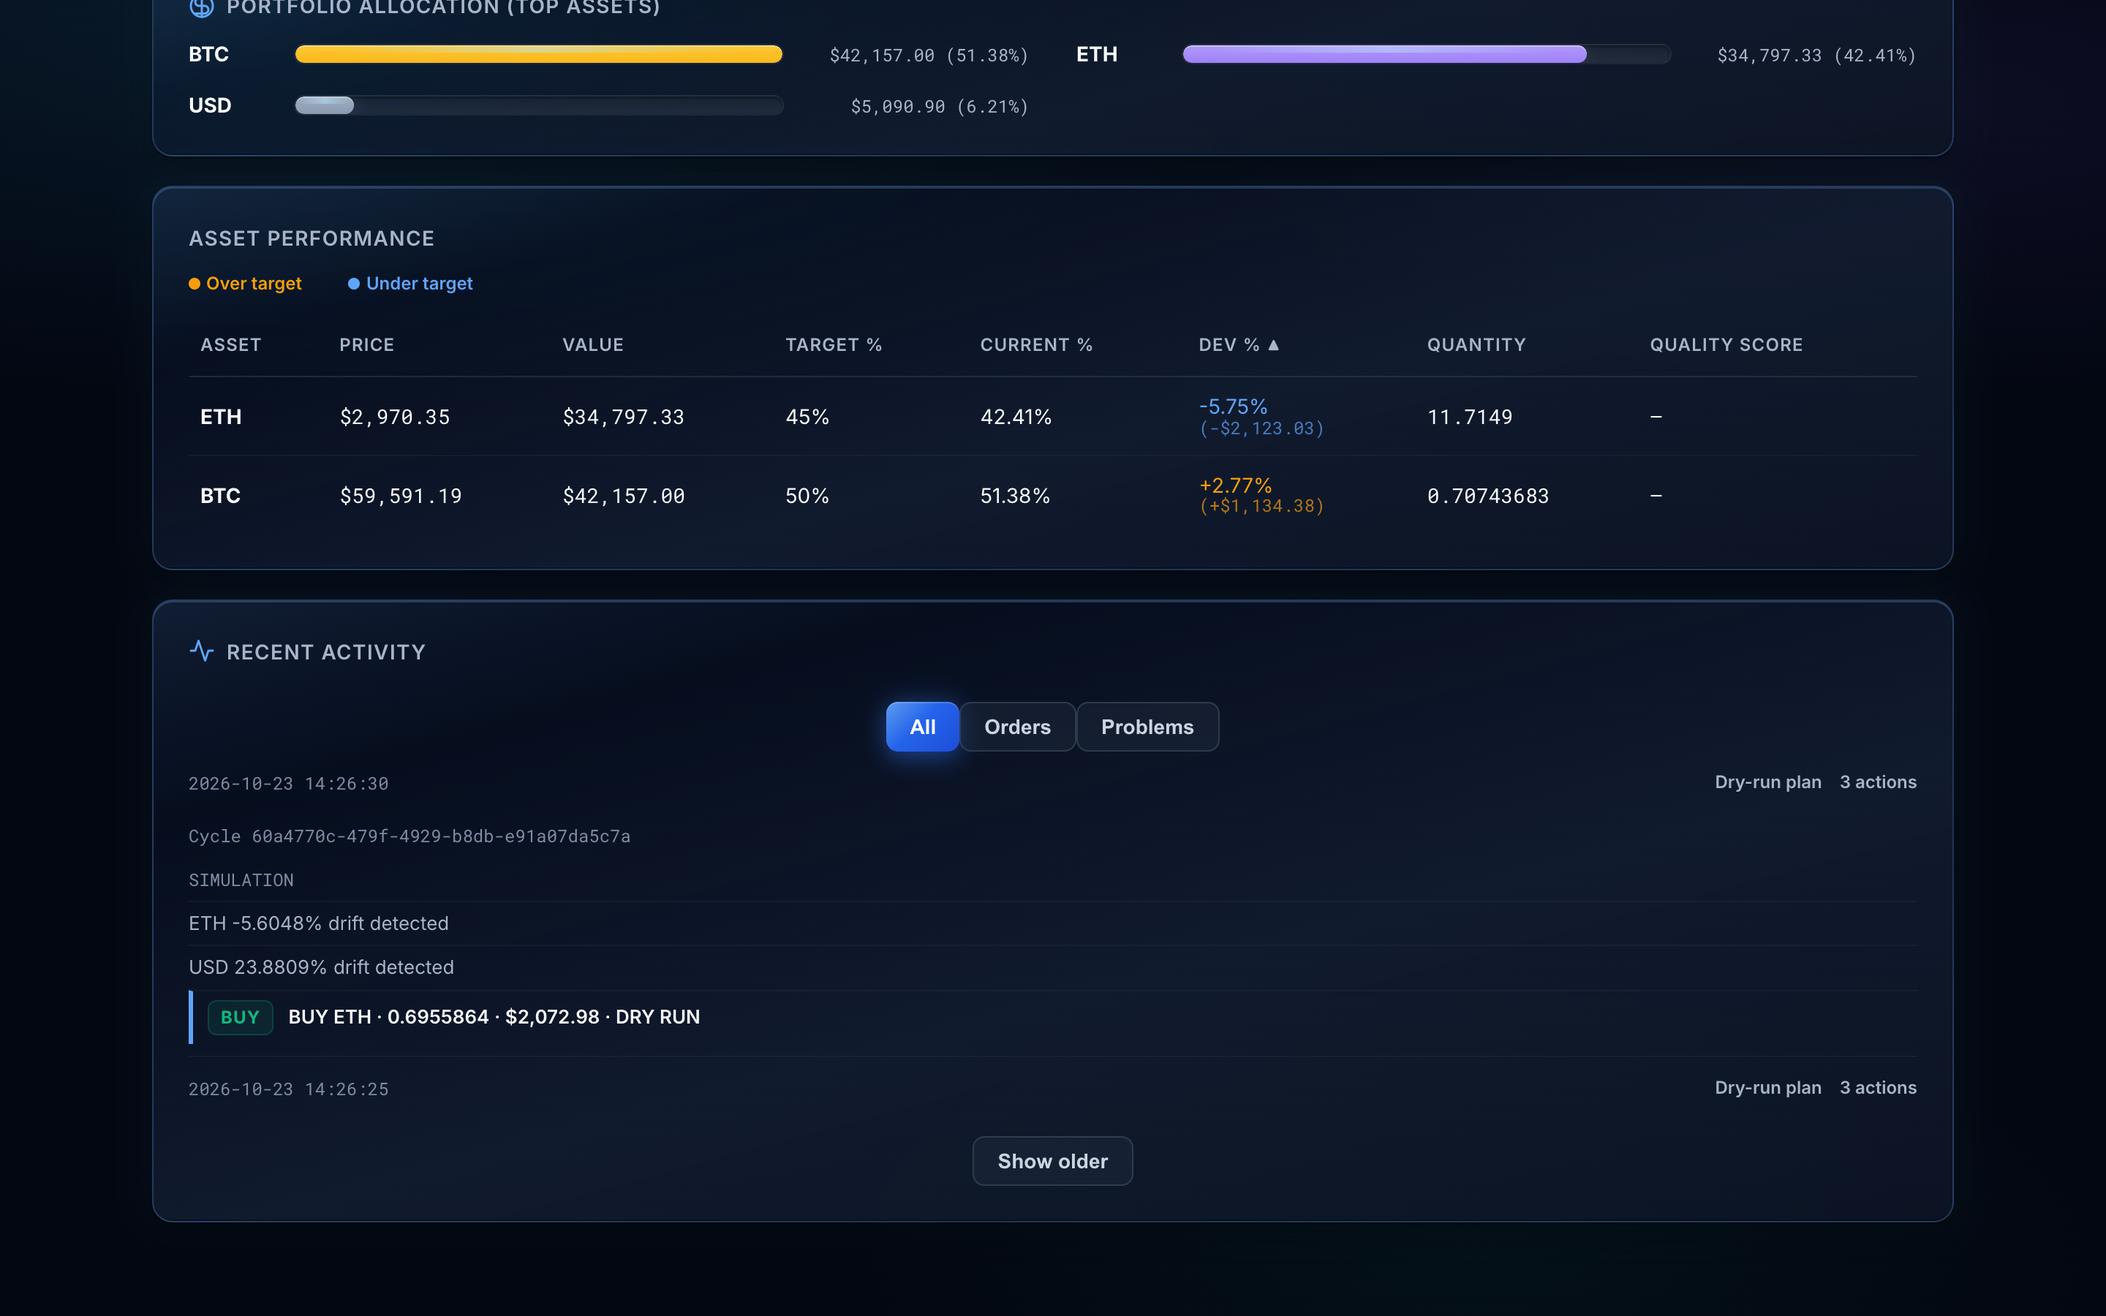
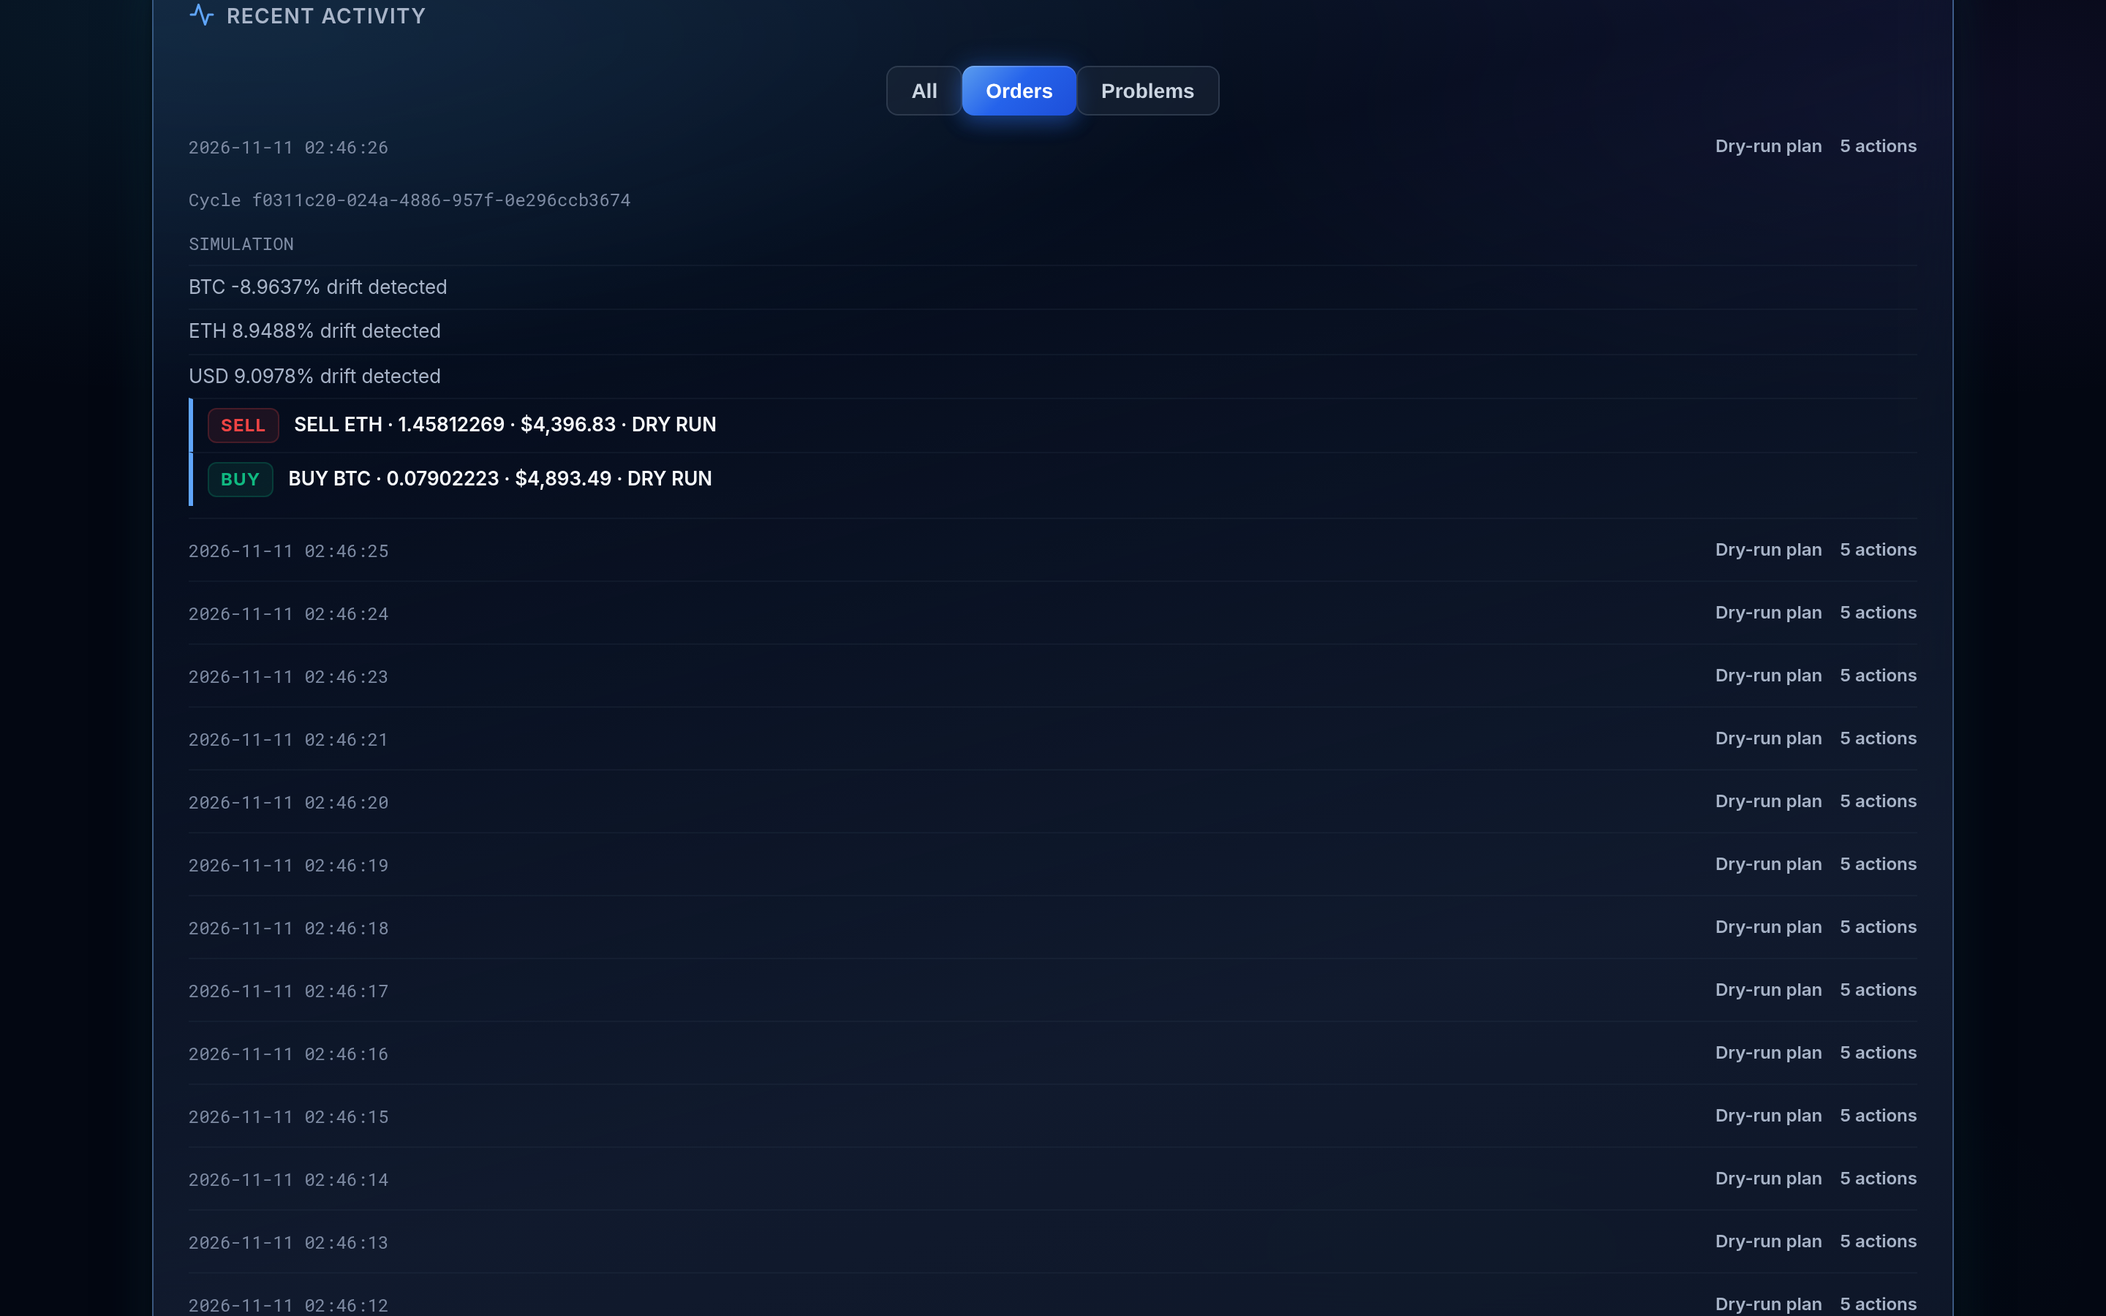
fix: retain order activity through routine rebalance cycles (#466)
* wip: retain order and problem activity

* test: verify retained activity and refresh simulator screenshot

diff --git a/frontend-js/src/jsMain/kotlin/Dashboard.kt b/frontend-js/src/jsMain/kotlin/Dashboard.kt
@@ -2,7 +2,7 @@ package com.gemini.krakenbot.frontend
 
 import com.gemini.krakenbot.util.PrecisionConstants
 import com.gemini.krakenbot.util.StreamStatus
-import com.gemini.krakenbot.view.util.ActionLogFormat
+import com.gemini.krakenbot.view.util.ActivityClassification
 import com.gemini.krakenbot.view.util.CssClass
 import com.gemini.krakenbot.view.util.DataSort
 import com.gemini.krakenbot.view.util.HtmlAttrs
@@ -180,20 +180,19 @@ internal fun mergeRecentActivityItems(
 ): List<RecentActivityItem> {
     val byCycleId = linkedMapOf<String, RecentActivityItem>()
     (existing + incoming).forEach { item -> byCycleId[item.cycleId] = item }
-    return byCycleId.values
+    val sorted = byCycleId.values
         .sortedWith(compareByDescending<RecentActivityItem> { it.occurredAt }.thenByDescending { it.cycleId })
-        .take(RecentActivityText.MAX_ITEMS.toInt())
+    return ActivityClassification.retain(sorted) { ActivityClassification.isProtected(it.outcome, it.actions) }
 }
 
 internal fun filterRecentActivityItems(items: List<RecentActivityItem>, filter: String): List<RecentActivityItem> =
     when (filter) {
         RecentActivityText.FILTER_VALUE_ORDERS -> items.filter { item ->
-            outcomeCode(item.outcome) in setOf("DRY_RUN_PLAN", "ORDERS_ATTEMPTED") ||
-                item.actions.any(::isOrderAction)
+            ActivityClassification.hasOrders(item.outcome, item.actions)
         }
 
         RecentActivityText.FILTER_VALUE_PROBLEMS -> items.filter { item ->
-            outcomeCode(item.outcome) == "PROBLEM" || item.actions.any(::isProblemAction)
+            ActivityClassification.hasProblem(item.outcome, item.actions)
         }
 
         else -> items
@@ -414,29 +413,15 @@ private fun activityModeLabel(mode: String): String = when (mode.uppercase()) {
 }
 
 private fun itemHasOrders(item: RecentActivityItem): Boolean =
-    outcomeCode(item.outcome) in setOf("DRY_RUN_PLAN", "ORDERS_ATTEMPTED") || item.actions.any(::isOrderAction)
+    ActivityClassification.hasOrders(item.outcome, item.actions)
 
 private fun hasActivity(item: RecentActivityItem): Boolean =
-    item.actions.isNotEmpty() || outcomeCode(item.outcome) in setOf("DRY_RUN_PLAN", "ORDERS_ATTEMPTED", "PROBLEM")
+    item.actions.isNotEmpty() || ActivityClassification.isProtected(item.outcome, item.actions)
 
 private fun itemProblem(item: RecentActivityItem): Boolean =
-    outcomeCode(item.outcome) == "PROBLEM" || item.actions.any(::isProblemAction)
+    ActivityClassification.hasProblem(item.outcome, item.actions)
 
-private fun isOrderAction(action: String): Boolean = activityOrderSide(action) != null
-
-private fun activityOrderSide(action: String): String? {
-    val normalized = action.uppercase().removePrefix(ActionLogFormat.DRY_RUN_PREFIX.uppercase()).trim()
-    return when {
-        normalized.startsWith("BUY") -> "BUY"
-        normalized.startsWith("SELL") -> "SELL"
-        else -> null
-    }
-}
-
-private fun isProblemAction(action: String): Boolean {
-    val normalized = action.uppercase().trimStart()
-    return normalized.startsWith("ERROR") || normalized.startsWith("FAILED") || normalized.startsWith("WARNING")
-}
+private fun activityOrderSide(action: String): String? = ActivityClassification.orderSide(action)
 
 private fun activityLocalTime(timestamp: Double): String {
     val date = Date(timestamp)

diff --git a/backend/src/test/kotlin/com/gemini/krakenbot/service/CurrentPortfolioStateTest.kt b/backend/src/test/kotlin/com/gemini/krakenbot/service/CurrentPortfolioStateTest.kt
@@ -112,7 +112,7 @@ class CurrentPortfolioStateTest : StringSpec() {
             val state = CurrentPortfolioState()
             val start = Instant.parse("2026-10-11T12:00:00Z")
 
-            repeat(CurrentPortfolioState.MAX_RECENT_ACTIVITIES + 10) { index ->
+            repeat(130) { index ->
                 state.publish(
                     TestFixtures.emptySnapshot(start.plusSeconds(index.toLong()), BigDecimal("100")),
                     sourceScope = "live:credential-generation-a",
@@ -128,7 +128,7 @@ class CurrentPortfolioStateTest : StringSpec() {
 
             val view = state.readDashboardView()
             view.recentSnapshots shouldHaveSize 130
-            view.recentActivities shouldHaveSize CurrentPortfolioState.MAX_RECENT_ACTIVITIES
+            view.recentActivities shouldHaveSize 120
             view.recentActivities.first().cycleId shouldBe "cycle-129"
             view.recentActivities.last().cycleId shouldBe "cycle-10"
 
@@ -143,6 +143,35 @@ class CurrentPortfolioStateTest : StringSpec() {
             state.readDashboardView().recentActivities.first() shouldBe failed
             state.readDashboardView().latest shouldBe view.latest
             state.activityUpdates.value shouldBe failed
+        }
+
+        "routine cycles cannot evict orders or problems and both classes remain bounded" {
+            val state = CurrentPortfolioState()
+            val start = Instant.parse("2026-10-11T12:00:00Z")
+            fun activity(id: String, index: Int, outcome: CurrentCycleOutcome?, actions: List<String>) =
+                CurrentCycleActivity(
+                    id,
+                    start.plusSeconds(index.toLong()),
+                    CurrentCycleActivityMode.LIVE,
+                    outcome,
+                    actions,
+                )
+
+            state.publishActivity(activity("order", 0, null, listOf("[DRY RUN] BUY BTC")), "a")
+            repeat(130) {
+                state.publishActivity(activity("routine-$it", it + 1, CurrentCycleOutcome.NO_TRADE, emptyList()), "a")
+            }
+            state.readDashboardView().recentActivities.map { it.cycleId }.contains("order") shouldBe true
+            repeat(120) {
+                state.publishActivity(activity("problem-$it", it + 200, null, listOf("WARNING: issue")), "a")
+            }
+            val retained = state.readDashboardView().recentActivities
+            retained shouldHaveSize 240
+            retained.any { it.cycleId == "order" } shouldBe false
+            state.publishActivity(activity("problem-119", 400, CurrentCycleOutcome.NO_TRADE, emptyList()), "a")
+            state.readDashboardView().recentActivities.count { it.cycleId == "problem-119" } shouldBe 1
+            state.publishActivity(activity("new-source", 500, null, emptyList()), "b")
+            state.readDashboardView().recentActivities.map { it.cycleId } shouldBe listOf("new-source")
         }
 
         "activity ring clears on source changes and replaces duplicate cycle identities" {

diff --git a/frontend-js/src/jsTest/kotlin/DashboardTest.kt b/frontend-js/src/jsTest/kotlin/DashboardTest.kt
@@ -129,12 +129,44 @@ class DashboardTest : StringSpec() {
             )
             val root = activityDom(
                 "bounded-source",
-                listOf(activity("cycle-120", 120.0, "ORDERS_ATTEMPTED", listOf("BUY BTC"))),
+                listOf(activity("cycle-120", 120.0)),
             )
             try {
                 restoreRecentActivityState()
-                recentActivityUiState.expandedCycleIds shouldBe setOf("cycle-119", "cycle-120")
+                recentActivityUiState.expandedCycleIds shouldBe setOf("cycle-119")
                 recentActivityUiState.items.size shouldBe 120
+            } finally {
+                removeActivityDom(root)
+                resetRecentActivityClientState()
+            }
+        }
+
+        "older orders survive routine cycles and each retention class is bounded" {
+            val order = activity("order", 0.0, "RECORDED", listOf("[DRY RUN] SELL BTC"))
+            val routine = (1..130).map { activity("routine-$it", it.toDouble()) }
+            val merged = mergeRecentActivityItems(listOf(order), routine)
+            merged.size shouldBe 121
+            filterRecentActivityItems(merged, RecentActivityText.FILTER_VALUE_ORDERS).map { it.cycleId } shouldBe
+                listOf("order")
+            val problems = (1..120).map {
+                activity("problem-$it", 200.0 + it, "RECORDED", listOf("WARNING: issue"))
+            }
+            val bounded = mergeRecentActivityItems(merged, problems)
+            bounded.size shouldBe 240
+            bounded.any { it.cycleId == "order" } shouldBe false
+            val updated = activity("problem-120", 400.0, "NO_TRADE")
+            mergeRecentActivityItems(bounded, listOf(updated)).count { it.cycleId == "problem-120" } shouldBe 1
+        }
+
+        "fresh page restores an older order after many routine cycles" {
+            resetRecentActivityClientState()
+            val order = activity("older-order", 0.0, "ORDERS_ATTEMPTED", listOf("BUY BTC"))
+            val items = (1..120).map { activity("routine-$it", it.toDouble()) } + order
+            val root = activityDom("fresh-source", items)
+            try {
+                restoreRecentActivityState()
+                filterRecentActivityItems(recentActivityUiState.items, RecentActivityText.FILTER_VALUE_ORDERS)
+                    .map { it.cycleId } shouldBe listOf("older-order")
             } finally {
                 removeActivityDom(root)
                 resetRecentActivityClientState()

diff --git a/backend/src/main/kotlin/com/gemini/krakenbot/view/component/RecentActivityComponent.kt b/backend/src/main/kotlin/com/gemini/krakenbot/view/component/RecentActivityComponent.kt
@@ -7,6 +7,7 @@ import com.gemini.krakenbot.service.CurrentCycleOutcome
 import com.gemini.krakenbot.service.CurrentPortfolioState
 import com.gemini.krakenbot.util.ActionLogFormatter
 import com.gemini.krakenbot.view.util.ActionLogFormat
+import com.gemini.krakenbot.view.util.ActivityClassification
 import com.gemini.krakenbot.view.util.CssClass
 import com.gemini.krakenbot.view.util.Icons
 import com.gemini.krakenbot.view.util.RecentActivityText
@@ -97,9 +98,8 @@ class RecentActivityComponent {
 
     private fun DIV.renderCycle(activity: CurrentCycleActivity, hidden: Boolean) {
         val outcome = activity.outcome.toLabel()
-        val orders = activity.actions.any { TradeAction.from(it) != TradeAction.INFO } ||
-            activity.outcome in setOf(CurrentCycleOutcome.DRY_RUN_PLAN, CurrentCycleOutcome.ORDERS_ATTEMPTED)
-        val problem = activity.outcome == CurrentCycleOutcome.PROBLEM || activity.actions.any(::isProblemAction)
+        val orders = ActivityClassification.hasOrders(activity.outcome?.name, activity.actions)
+        val problem = ActivityClassification.hasProblem(activity.outcome?.name, activity.actions)
         val actions = activity.actions
         details(CssClass.Activity.Cycle.value) {
             if (hidden) attributes["hidden"] = "hidden"
@@ -170,12 +170,6 @@ class RecentActivityComponent {
             CurrentCycleActivityMode.SIMULATION -> ViewText.MODE_SIMULATION
             CurrentCycleActivityMode.DRY_RUN -> ViewText.MODE_DRY_RUN
             CurrentCycleActivityMode.LIVE -> ViewText.MODE_LIVE
-        }
-
-        fun isProblemAction(action: String): Boolean {
-            val normalized = action.uppercase(Locale.ROOT).trimStart()
-            return normalized.startsWith("ERROR") || normalized.startsWith("FAILED") ||
-                normalized.startsWith("WARNING")
         }
     }
 }

diff --git a/common/src/commonMain/kotlin/com/gemini/krakenbot/view/util/ActivityClassification.kt b/common/src/commonMain/kotlin/com/gemini/krakenbot/view/util/ActivityClassification.kt
@@ -1,0 +1,37 @@
+package com.gemini.krakenbot.view.util
+
+/** Classification shared by the server retention policy and browser filters. */
+object ActivityClassification {
+    const val RETENTION_PER_CLASS = 120
+
+    fun orderSide(action: String): String? {
+        val normalized = action.uppercase().removePrefix(ActionLogFormat.DRY_RUN_PREFIX.uppercase()).trim()
+        return when {
+            normalized.startsWith("BUY") -> "BUY"
+            normalized.startsWith("SELL") -> "SELL"
+            else -> null
+        }
+    }
+
+    fun isProblemAction(action: String): Boolean {
+        val normalized = action.uppercase().trimStart()
+        return normalized.startsWith("ERROR") || normalized.startsWith("FAILED") || normalized.startsWith("WARNING")
+    }
+
+    fun hasOrders(outcome: String?, actions: List<String>): Boolean =
+        outcome?.uppercase() in setOf("DRY_RUN_PLAN", "ORDERS_ATTEMPTED") || actions.any { orderSide(it) != null }
+
+    fun hasProblem(outcome: String?, actions: List<String>): Boolean =
+        outcome?.uppercase() == "PROBLEM" || actions.any(::isProblemAction)
+
+    fun isProtected(outcome: String?, actions: List<String>): Boolean =
+        hasOrders(outcome, actions) || hasProblem(outcome, actions)
+
+    fun <T> retain(sorted: List<T>, isProtected: (T) -> Boolean): List<T> {
+        var routineCount = 0
+        var protectedCount = 0
+        return sorted.filter {
+            if (isProtected(it)) ++protectedCount <= RETENTION_PER_CLASS else ++routineCount <= RETENTION_PER_CLASS
+        }
+    }
+}

diff --git a/backend/src/main/kotlin/com/gemini/krakenbot/service/CurrentPortfolioState.kt b/backend/src/main/kotlin/com/gemini/krakenbot/service/CurrentPortfolioState.kt
@@ -1,6 +1,7 @@
 package com.gemini.krakenbot.service
 
 import com.gemini.krakenbot.model.PortfolioSnapshot
+import com.gemini.krakenbot.view.util.ActivityClassification
 import kotlinx.coroutines.flow.MutableStateFlow
 import kotlinx.coroutines.flow.StateFlow
 import kotlinx.coroutines.flow.asStateFlow
@@ -68,7 +69,11 @@ class CurrentPortfolioState {
     private fun appendActivity(activity: CurrentCycleActivity) {
         recentActivities.removeAll { it.cycleId == activity.cycleId }
         recentActivities.addLast(activity)
-        while (recentActivities.size > MAX_RECENT_ACTIVITIES) recentActivities.removeFirst()
+        val retained = ActivityClassification.retain(recentActivities.sortedActivities()) {
+            ActivityClassification.isProtected(it.outcome?.name, it.actions)
+        }
+        recentActivities.clear()
+        recentActivities.addAll(retained)
         mutableActivityUpdate.value = activity
     }
 
@@ -77,7 +82,7 @@ class CurrentPortfolioState {
 
     companion object {
         const val MAX_RECENT_SNAPSHOTS = 2_880
-        const val MAX_RECENT_ACTIVITIES = 120
+        const val MAX_RECENT_ACTIVITIES = ActivityClassification.RETENTION_PER_CLASS * 2
     }
 }
 

diff --git a/backend/src/test/kotlin/com/gemini/krakenbot/view/component/RecentActivityComponentTest.kt b/backend/src/test/kotlin/com/gemini/krakenbot/view/component/RecentActivityComponentTest.kt
@@ -98,6 +98,17 @@ class RecentActivityComponentTest : StringSpec() {
                 htmlString.indexOf("last recorded note")
         }
 
+        "fresh markup includes retained orders beyond 120 newer routine cycles" {
+            val routine = (1..120).map {
+                activity().copy(cycleId = "routine-$it", outcome = CurrentCycleOutcome.NO_TRADE)
+            }
+            val html = createHTML().div {
+                RecentActivityComponent().render(routine + activity("BUY BTC").copy(cycleId = "older-order"), "source")
+            }
+            html shouldContain "data-cycle-id=\"older-order\""
+            html shouldContain "data-activity-orders=\"true\""
+        }
+
         "legacy activity with no outcome uses the recorded activity label" {
             val htmlString = createHTML().div {
                 RecentActivityComponent().render(

diff --git a/docs/USER_GUIDE.md b/docs/USER_GUIDE.md
@@ -142,9 +142,10 @@ Live Trading mode.
   Amber = over target, blue = under target (not profit/loss green/red); a small
   legend sits above the table.
 - **Recent Activity** — the newest 20 cycle outcomes with a short summary and
-  timestamps. Use **Show older** to page through in-memory cycle outcomes, which are
-  capped at 120 cycles. Failed cycles without a portfolio snapshot remain
-  visible:
+  timestamps. Use **Show older** to page through up to 120 routine cycles and
+  120 order or problem cycles retained in memory. Routine cycles cannot evict
+  order or problem cycles. Activity clears on restart or when simulation mode
+  or credential scope changes. Failed cycles without a portfolio snapshot remain visible:
   - Red **SELL** / green **BUY** — orders with USD to 2 decimals
 
 <a href="images/dashboard-bottom.png"><img src="images/dashboard-bottom.png" alt="Recent cycle activity and outcomes" width="960"></a>

diff --git a/README.md b/README.md
@@ -265,8 +265,9 @@ Earlier Phase 5 updates integrated a reactive configuration loop (`watchConfigCh
 - Pushes current-cycle updates over Server-Sent Events.
 - Shows asset allocation bars and a sortable holdings table with price, value,
   target/current allocation, deviation, quantity, and optional quality score.
-- Shows Recent Activity for completed and failed cycles, with up to 120 current
-  process outcomes available through Show older.
+- Shows Recent Activity for completed and failed cycles, retaining up to 120 routine
+  cycles and 120 order or problem cycles in memory. Activity clears on restart or
+  when simulation mode or credential scope changes.
 - Displays loop controls, operational status, and the active simulation/dry-run/live mode.
 - Uses HTMX for HTML swaps and form submissions, plus Kotlin/JS for browser interactions.
 

diff --git a/CHANGELOG.md b/CHANGELOG.md
@@ -10,6 +10,7 @@ to [Semantic Versioning](https://semver.org/spec/v2.0.0.html).
 
 ### Changed
 
+- Retain recent order and problem cycles separately from routine activity in the Dashboard's in-memory history.
 - Space Dashboard trend samples by elapsed time and show the observed UTC window.
 
 ## [6.20.22] - 2026-11-09
